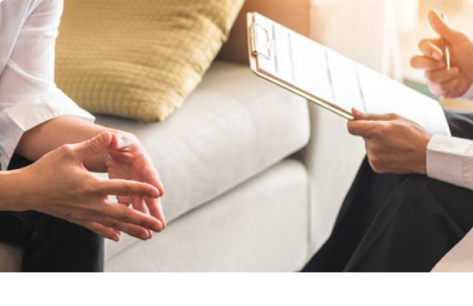
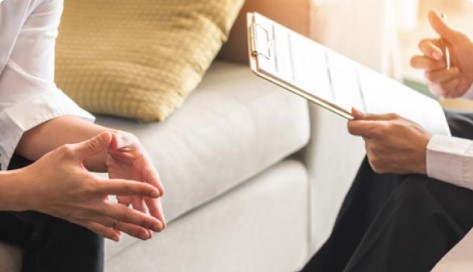
fix imagen apoyo - urls

diff --git a/resources/views/argentina.blade.php b/resources/views/argentina.blade.php
@@ -155,17 +155,17 @@
             </p>
             <div class="grid justify-center gap-4 text-lg font-black text-white lg:grid-cols-3 lg:text-2xl">
                 <a href="{{ url('/en-movimiento/argentina') }}" class="overflow-hidden rounded hover:shadow-md">
-                    <img class="object-cover h-64 w-72" src="{{ asset('images/conoce-mas/en-movimiento.jpg') }}" alt="movimiento">
+                    <img class="object-cover h-64 w-full" src="{{ asset('images/conoce-mas/en-movimiento.jpg') }}" alt="movimiento">
                     <p class="text-center w-full py-2 lg:py-4 bg-[#3C137C]">En movimiento</p>
                 </a>
-                <a href="{{ url('/venta-en/argentina') }}" class="overflow-hidden rounded hover:shadow-md">
-                    <img class="object-cover h-64 w-72" src="{{ asset('images/conoce-mas/asesoria-juridica.jpg') }}" alt="Asesoria Jurídica">
+                <div class="overflow-hidden rounded hover:shadow-md">
+                    <img class="object-cover h-64 w-full" src="{{ asset('images/conoce-mas/asesoria-juridica.jpg') }}" alt="Asesoria Jurídica">
                     <p class="text-center w-full py-2 lg:py-4 bg-[#3C137C]">Asesoria Jurídica</p>
-                </a>
-                <a href="{{ url('/renta-en/argentina') }}" class="overflow-hidden rounded hover:shadow-md">
-                    <img class="object-cover h-64 w-72" src="{{ asset('images/conoce-mas/telefonia-internet.jpg') }}" alt="telefonia internet">
+                </div>
+                <div class="overflow-hidden rounded hover:shadow-md">
+                    <img class="object-cover h-64 w-full" src="{{ asset('images/conoce-mas/telefonia-internet.jpg') }}" alt="telefonia internet">
                     <p class="text-center w-full py-2 lg:py-4 bg-[#3C137C]">Telefonía/Internet</p>
-                </a>
+                </div>
             </div>
         </div>
     </section>
@@ -176,22 +176,20 @@
                 class="flex items-center flex-col justify-center bg-spotlight-pattern bg-[left_0%] lg:bg-[left_-24%] py-12 lg:py-0">
                 <p class="text-2xl font-black lg:leading-tight lg:text-5xl">¿Cómo y dónde <br>realizar tus <br>tramites?</p>
             </div>
-            <a href="{{ url('/desarrolla-tu-futuro/argentina#trabaja') }}"
+            <div
                 class="relative flex flex-col items-center justify-end isolate min-h-[300px]">
-                <p
-                    class="w-2/3 lg:w-1/3  flex justify-center py-2 rounded-t-md px-6 bg-[#25E59B] hover:bg-white transition hover:text-[#3C137C]">
+                <p class="w-2/3 lg:w-1/3 flex justify-center py-2 rounded-t-md px-6 bg-[#25E59B] hover:bg-white transition hover:text-[#3C137C]">
                     Bancos</p>
                 <img src="{{ asset('images/spotlight/banco.jpg') }}" alt=""
                     class="absolute inset-0 object-cover w-full h-full -z-10">
-            </a>
-            <a href="{{ url('/desarrolla-tu-futuro/argentina#estudia') }}"
+            </div>
+            <div
                 class="relative flex flex-col items-center justify-end isolate min-h-[300px]">
-                <p
-                    class="w-2/3 lg:w-1/3  flex justify-center py-2 rounded-t-md text-center px-6 bg-[#25E59B] hover:bg-white transition hover:text-[#3C137C] leading-4">
+                <p class="w-2/3 lg:w-1/3 flex justify-center py-2 rounded-t-md text-center px-6 bg-[#25E59B] hover:bg-white transition hover:text-[#3C137C] leading-4">
                     Transferencia <br>de dinero</p>
                 <img src="{{ asset('images/spotlight/transferencia-de-dinero.jpg') }}" alt="transferencia de dinero"
                     class="absolute inset-0 object-cover w-full h-full -z-10">
-            </a>
+            </div>
         </div>
     </section>
     {{-- Encontrá tu mejor servicio --}}
